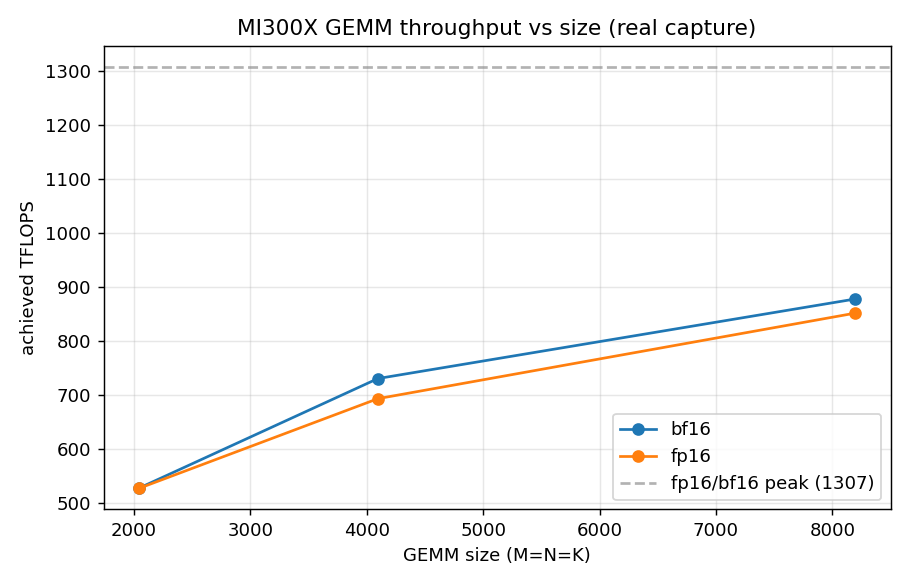
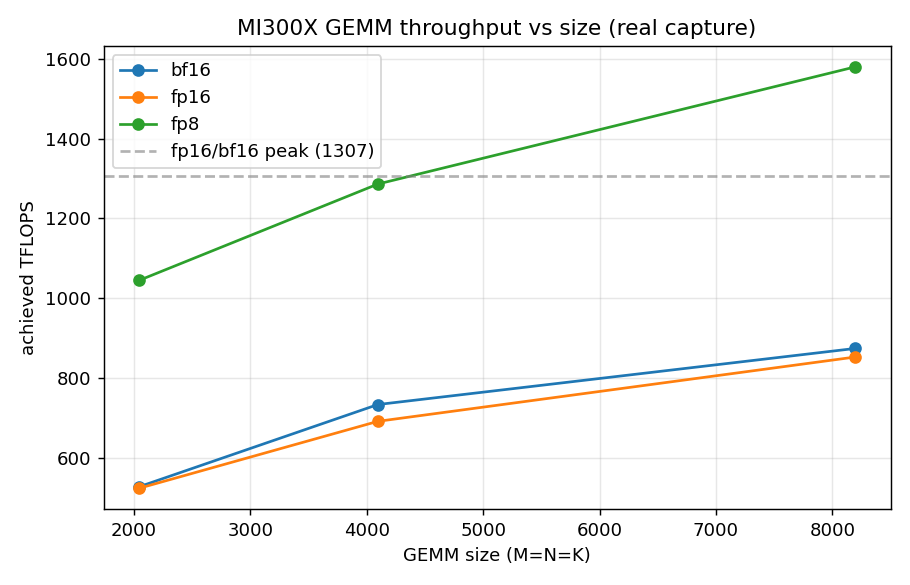
Regenerate analysis with fp8: 3-precision TFLOPS/MFMA curves
Full real dataset now spans fp16/bf16/fp8 × 2048/4096/8192. fp8 reaches
1045/1286/1580 TFLOPS (up to 1.6 PFLOPS at 8192), clearly above the fp16/bf16
~1307 peak line — the MI300X precision advantage, measured.

diff --git a/mi300x-dashboard/data/analysis/summary.md b/mi300x-dashboard/data/analysis/summary.md
@@ -2,13 +2,17 @@
 
 | workload | precision | size | TFLOPS | bandwidth_TBs | MFMA_pct | L2_hit_pct | bound_by | e2e_ms | source |
 |---|---|---|---|---|---|---|---|---|---|
-| GEMM bf16 2048^3 | bf16 | 2048 | 527.891 | 1.4477 | 40.4 | 67.6 | compute | 0.6834 | device |
-| GEMM bf16 4096^3 | bf16 | 4096 | 730.42 | 1.7142 | 55.9 | 65.2 | compute | 3.9515 | device |
-| GEMM bf16 8192^3 | bf16 | 8192 | 877.61 | 1.0299 | 67.1 | 72.9 | compute | 26.3098 | device |
-| GEMM fp16 2048^3 | fp16 | 2048 | 527.395 | 1.4461 | 40.3 | 67.5 | compute | 0.6841 | device |
-| GEMM fp16 4096^3 | fp16 | 4096 | 693.181 | 1.6061 | 53.0 | 65.6 | compute | 4.1637 | device |
-| GEMM fp16 8192^3 | fp16 | 8192 | 851.419 | 1.0819 | 65.1 | 70.7 | compute | 27.1191 | device |
+| GEMM bf16 2048^3 | bf16 | 2048 | 527.148 | 1.4456 | 40.3 | 67.6 | compute | 0.6844 | device |
+| GEMM bf16 4096^3 | bf16 | 4096 | 733.068 | 1.7044 | 56.1 | 65.5 | compute | 3.9372 | device |
+| GEMM bf16 8192^3 | bf16 | 8192 | 873.582 | 1.0489 | 66.8 | 72.3 | compute | 26.4311 | device |
+| GEMM fp16 2048^3 | fp16 | 2048 | 523.255 | 1.4347 | 40.0 | 67.5 | compute | 0.6895 | device |
+| GEMM fp16 4096^3 | fp16 | 4096 | 690.939 | 1.6011 | 52.8 | 65.6 | compute | 4.1772 | device |
+| GEMM fp16 8192^3 | fp16 | 8192 | 852.056 | 1.1669 | 65.2 | 68.4 | compute | 27.0989 | device |
+| GEMM fp8 2048^3 | fp8 | 2048 | 1044.814 | 1.0241 | 40.0 | 78.4 | compute | 0.3453 | device |
+| GEMM fp8 4096^3 | fp8 | 4096 | 1286.068 | 1.6339 | 49.2 | 47.4 | compute | 2.2442 | device |
+| GEMM fp8 8192^3 | fp8 | 8192 | 1579.615 | 0.7964 | 60.4 | 77.4 | compute | 14.6173 | device |
 | PPO Policy Inference (batch-1 robot control) | bf16 | None | 0.3 | 0.64 | 0.0 | 70.0 | memory | 0.05 | gem5 |
 | gemm (Cijk_Ailk_Bljk_HHS_BH_MT256x112x) | fp16 | None | 730.799 | 1.5943 | 55.9 | 67.6 | compute | 9.5914 | device |
+| gemm_fp8 (Cijk_Alik_Bljk_F8NHS_BH_Bias_HA_) | fp8 | None | 1254.271 | 1.5998 | 48.0 | 47.2 | compute | 5.5884 | device |
 | rocBLAS GEMM (8192³) | bf16 | None | 650.6 | 0.71 | 49.8 | 90.0 | compute | 1.7125 | gem5 |
 | vectoradd (vadd(float const*, float const*, float*, int)) | fp16 | None | 41.07 | 1.9258 | 0.0 | 25.6 | memory | 0.6536 | device |